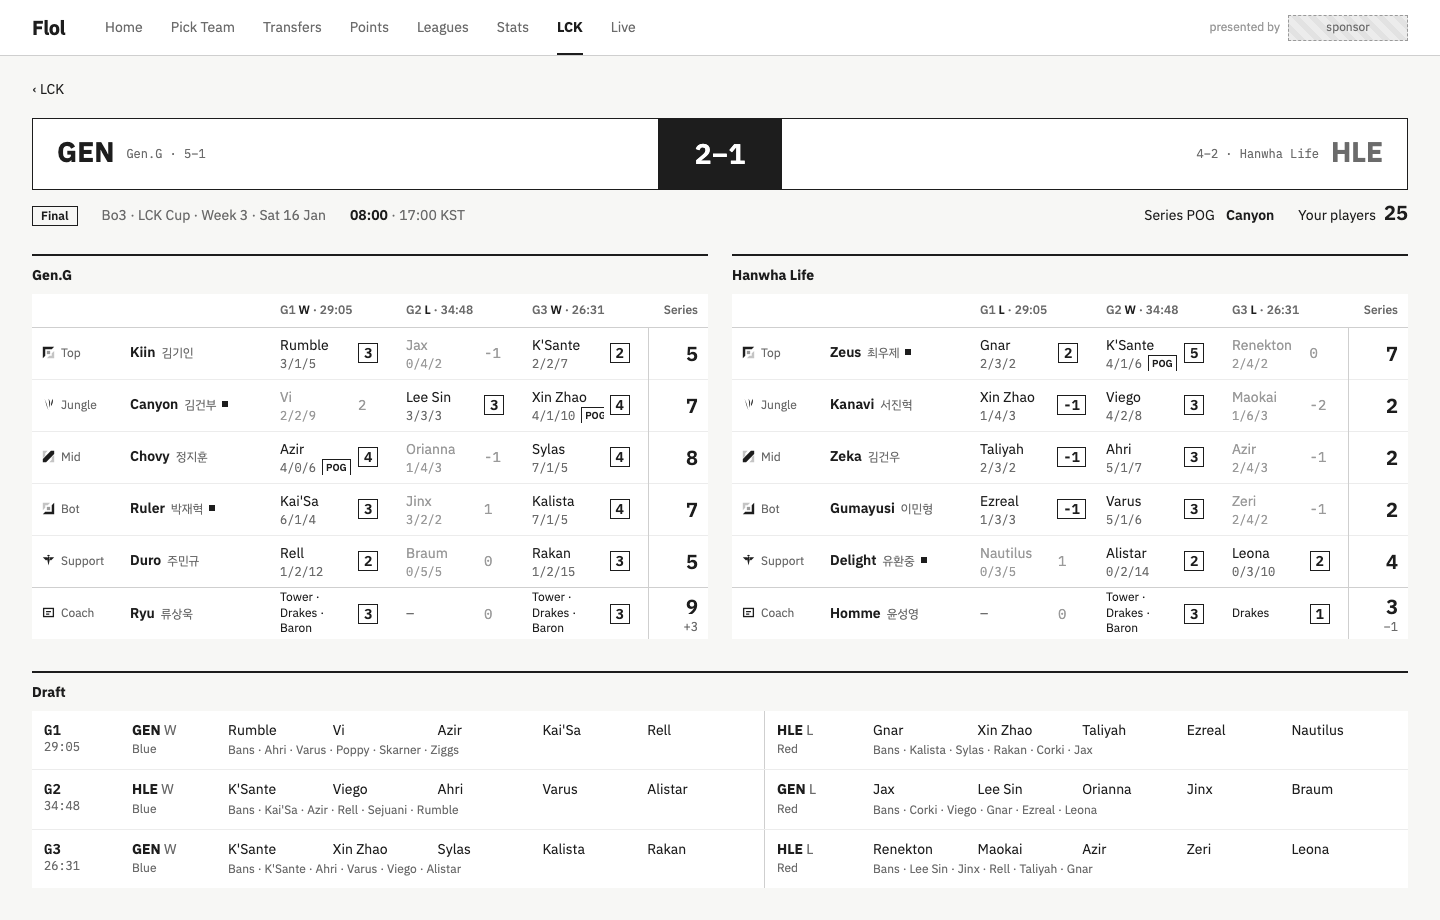
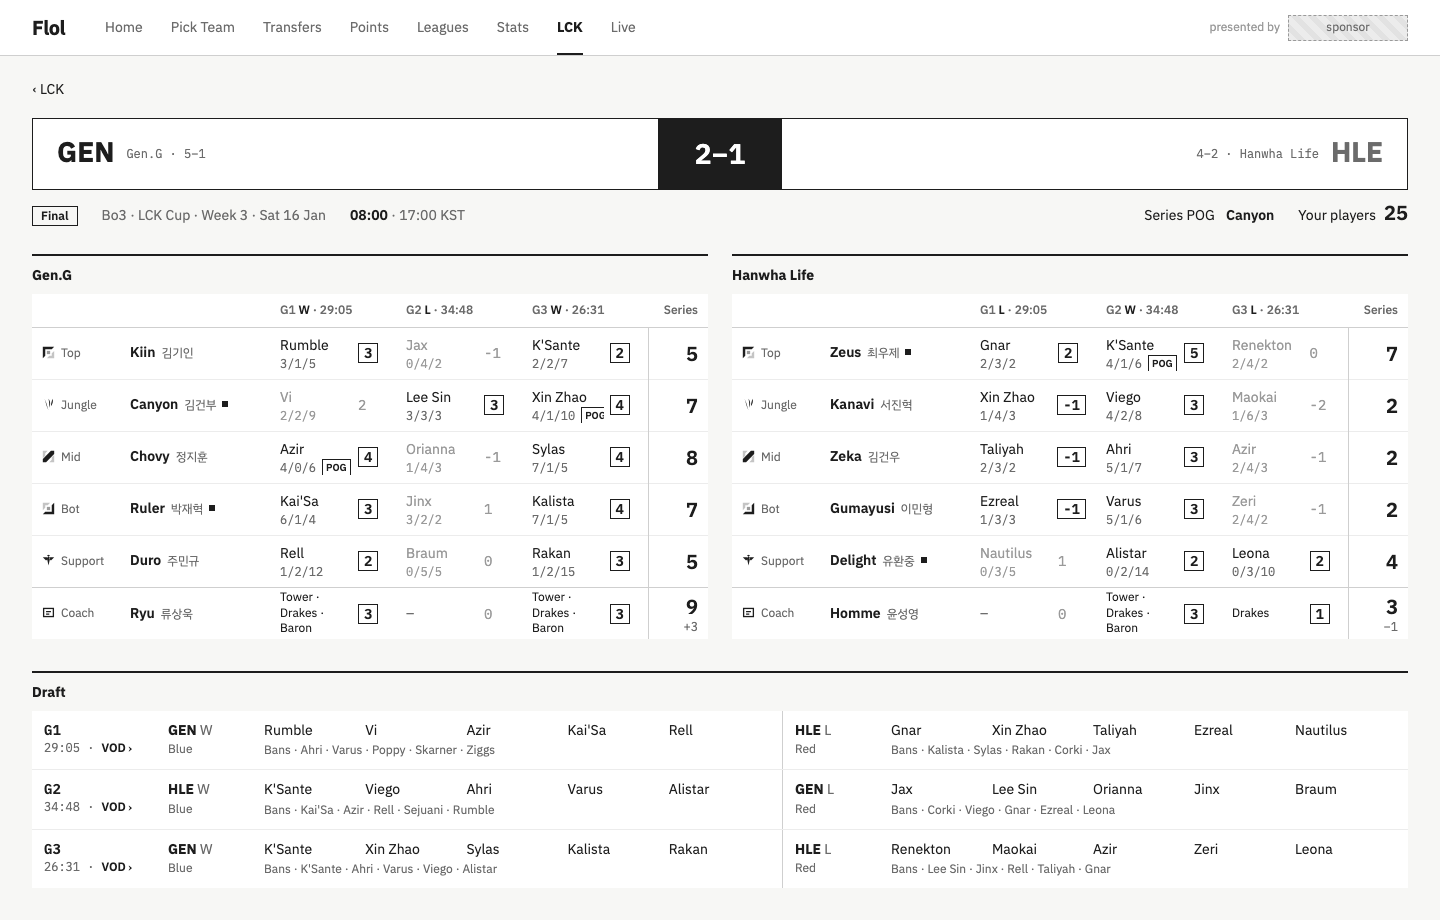
wip: Series round 3; VOD links, live view

diff --git a/docs/design/proposals/2026-11-16-series/series.html b/docs/design/proposals/2026-11-16-series/series.html
@@ -22,7 +22,7 @@ nav.top .sp { flex: 1; }
 .bug .sc.v { font-size: 20px; }
 .bug .lo b { color: var(--mid); }
 .meta { display: flex; gap: 24px; align-items: baseline; color: var(--mid); } .meta b { color: var(--ink); font-weight: 600; } .meta .tag { border: 1px solid var(--ink); color: var(--ink); padding: 1px 8px; font-size: 12px; font-weight: 600; }
-.meta .sp { flex: 1; } .meta a { color: var(--ink); font-weight: 600; }
+.meta .tag.nf { border-style: dashed; font-weight: 500; } .meta .sp { flex: 1; } .meta a { color: var(--ink); font-weight: 600; }
 .meta .fig { color: var(--ink); } .meta .fig b { font: 600 20px "IBM Plex Mono", monospace; margin-left: 8px; }
 .two { display: grid; grid-template-columns: 1fr 1fr; gap: 24px; margin-top: 28px; }
 h2 { font-size: 14px; font-weight: 700; border-top: 2px solid var(--ink); padding-top: 10px; margin-bottom: 8px; display: flex; gap: 10px; align-items: baseline; } h2 small { color: var(--mid); font-weight: 400; font-size: 12px; }
@@ -46,9 +46,9 @@ tr.co td { border-top: 1px solid var(--line); }
 .none { color: var(--mid); }
 /* the draft: one row per game, blue side left, red side right */
 .draft { margin-top: 32px; }
-.dr { display: grid; grid-template-columns: 88px 1fr 1fr; background: var(--paper); border-top: 1px solid var(--fill); }
+.dr { display: grid; grid-template-columns: 124px 1fr 1fr; background: var(--paper); border-top: 1px solid var(--fill); }
 .dr:first-of-type { border-top: 0; }
-.dr .g { padding: 10px 12px; font: 600 14px "IBM Plex Mono", monospace; } .dr .g small { display: block; font: 12px "IBM Plex Mono", monospace; color: var(--mid); }
+.dr .g { padding: 10px 12px; font: 600 14px "IBM Plex Mono", monospace; } .dr .g small { display: block; font: 12px "IBM Plex Mono", monospace; color: var(--mid); } .dr .g a { font: 600 12px "IBM Plex Sans KR"; color: var(--ink); }
 .side { padding: 10px 12px; display: grid; grid-template-columns: 96px 1fr; row-gap: 2px; }
 .side.red { border-left: 1px solid var(--line); }
 .side .who { grid-row: span 2; font-weight: 700; } .side .who small { display: block; font: 400 12px "IBM Plex Sans KR"; color: var(--mid); }
@@ -115,11 +115,19 @@ const S = {
           ["sup", "Delight", "유환중", [["Nautilus", 0, 3, 5, 0, 0, 0, 0, 0], ["Alistar", 0, 2, 14, 0, 0, 0, 0, 0], ["Leona", 0, 3, 10, 0, 0, 0, 0, 0]]]],
       bans: [["Kalista", "Sylas", "Rakan", "Corki", "Jax"], ["Kai'Sa", "Azir", "Rell", "Sejuani", "Rumble"], ["Lee Sin", "Jinx", "Rell", "Taliyah", "Gnar"]] } },
 };
+// Live: the same series at the Points moment (Sat 21:10 KST): T1 1–0, game 2 at 14:20. Faker G2 1, Siwoo G2 1, kkOma G2 0 (Points).
+// A live game has no gold lead (at 15:00), deathless, solo kills or steals yet: they come at final (spec/11). G2 so far: [champion, K, D, A, first blood]
+S.live = JSON.parse(JSON.stringify(S.final));
+S.live.games[1] = { live: "14:20", blue: "DK" }; S.live.pog = null;
+const G2 = { T1: [["Rumble", 1, 0, 1, 0], ["Xin Zhao", 1, 1, 2, 1], ["Sylas", 3, 0, 2, 0], ["Varus", 2, 0, 3, 0], ["Nautilus", 0, 1, 4, 0]],
+  DK: [["Gnar", 2, 1, 1, 0], ["Maokai", 0, 2, 1, 0], ["Azir", 0, 2, 1, 0], ["Zeri", 0, 1, 0, 0], ["Alistar", 0, 1, 2, 0]] };
+for (const c of ["T1", "DK"]) S.live[c].p.forEach((p, j) => { const [ch, k, d, a, fb] = G2[c][j]; p[3][1] = [ch, k, d, a, 0, 0, fb, 0, 0, true]; });
+S.live.T1.coach[2][1] = [0, 0, 0, 0, 0];
 const RH = { top: "Top", jng: "Jungle", mid: "Mid", bot: "Bot", sup: "Support" };
 const cap = (x) => Math.max(-3, Math.min(3, x));
-function pts(role, [, k, d, a, gold, solo, fb, multi, steal]) {
+function pts(role, [, k, d, a, gold, solo, fb, multi, steal, live]) {
   const kd = role === "top" || role === "sup" ? 2 : 3;
-  return cap(Math.floor(k / kd)) + cap(Math.floor(a / 5)) - cap(Math.floor(d / (role === "sup" ? 4 : 3))) + gold + solo + fb + (d === 0 ? 1 : 0) + multi + steal;
+  return cap(Math.floor(k / kd)) + cap(Math.floor(a / 5)) - cap(Math.floor(d / (role === "sup" ? 4 : 3))) + gold + solo + fb + (d === 0 && !live ? 1 : 0) + multi + steal;
 }
 const sum = (xs) => xs.reduce((s, x) => s + x, 0);
 // best 2 games: the indexes that count (the earlier game wins a tie, as on Points)
@@ -129,26 +137,26 @@ const pog = (s, i, n) => (s.games[i].pog === n ? '<span class="pog">POG</span>' 
 const cell = (s, i, n, label, sub, p, counted) => `<td class="${counted ? "" : "drop"}"><div class="gm"><span>${label}<small>${sub}${pog(s, i, n)}</small></span><span class="p">${counted ? `<span class="box">${p}</span>` : p}</span></div></td>`;
 const L = ["Tower", "Drakes", "Baron", "Elder", "Quick"];
 function team(s, code) {
-  const t = s[code], won = s.games.map((g) => g.w === code), n = s.games.length;
+  const t = s[code], won = s.games.map((g) => g.w === code), n = s.games.length, over = s.games.every((g) => g.w);
   const head = `<colgroup><col style="width:88px"><col style="width:${n > 2 ? 150 : 170}px">${s.games.map(() => "<col>").join("")}<col style="width:60px"></colgroup>
-    <tr><th></th><th></th>${s.games.map((g, i) => `<th>G${i + 1} <b>${g.w === code ? "W" : "L"}</b> · ${g.len}</th>`).join("")}<th class="n">Series</th></tr>`;
+    <tr><th></th><th></th>${s.games.map((g, i) => `<th>G${i + 1} ${g.live ? `<b>● ${g.live}</b>` : `<b>${g.w === code ? "W" : "L"}</b> · ${g.len}`}</th>`).join("")}<th class="n">Series</th></tr>`;
   const rows = t.p.map(([rl, nm, k, gs]) => { const ps = gs.map((g) => pts(rl, g)), c = best2(ps);
     return `<tr><td class="rl"><svg><use href="#i-${rl}"/></svg>${RH[rl]}</td><td class="pl"><b>${nm}</b><small>${k}</small>${me(nm)}</td>
       ${gs.map((g, i) => cell(s, i, nm, g[0], `${g[1]}/${g[2]}/${g[3]}`, ps[i], c.includes(i))).join("")}<td class="tot">${sum(c.map((i) => ps[i]))}</td></tr>`; }).join("");
-  const [cn, ck, cg] = t.coach, cp = cg.map(sum), c = best2(cp), sw = won.filter(Boolean).length === 2 ? 3 : -1;
+  const [cn, ck, cg] = t.coach, cp = cg.map(sum), c = best2(cp), sw = !over ? 0 : won.filter(Boolean).length === 2 ? 3 : -1;
   const coach = `<tr class="co"><td class="rl"><svg><use href="#i-coach"/></svg>Coach</td><td class="pl"><b>${cn}</b><small>${ck}</small>${me(cn)}</td>
     ${cg.map((g, i) => cell(s, i, cn, `<span class="${g.some(Boolean) ? "co-l" : "none"}">${g.map((x, j) => (x ? L[j] : "")).filter(Boolean).join(" · ") || "–"}</span>`, "", cp[i], c.includes(i))).join("")}
-    <td class="tot">${sum(c.map((i) => cp[i])) + sw}<small>${sw > 0 ? "+3" : "−1"}</small></td></tr>`;
+    <td class="tot">${sum(c.map((i) => cp[i])) + sw}<small>${sw > 0 ? "+3" : sw < 0 ? "−1" : "&nbsp;"}</small></td></tr>`;
   return { html: `<section><h2>${t.name}</h2><table>${head}${rows}${coach}</table></section>`,
     mine: sum(t.p.filter(([, nm]) => MINE.includes(nm)).map(([rl, , , gs]) => { const ps = gs.map((g) => pts(rl, g)); return sum(best2(ps).map((i) => ps[i])); }))
       + (MINE.includes(cn) ? sum(c.map((i) => cp[i])) + sw : 0) };
 }
 function draft(s) {
-  const side = (code, i, cls) => { const t = s[code], won = s.games[i].w === code;
-    return `<div class="side ${cls}"><div class="who">${code} <span style="font-weight:400;color:var(--mid)">${won ? "W" : "L"}</span><small>${cls === "blue" ? "Blue" : "Red"}</small></div>
+  const side = (code, i, cls) => { const t = s[code], g = s.games[i], won = g.w === code;
+    return `<div class="side ${cls}"><div class="who">${code} <span style="font-weight:400;color:var(--mid)">${g.live ? "" : won ? "W" : "L"}</span><small>${cls === "blue" ? "Blue" : "Red"}</small></div>
       <div class="pk">${t.p.map((p) => `<span>${p[3][i][0]}</span>`).join("")}</div><div class="bn">Bans · ${t.bans[i].join(" · ")}</div></div>`; };
   return `<section class="draft"><h2>Draft</h2>${s.games.map((g, i) => { const red = g.blue === s.a ? s.b : s.a;
-    return `<div class="dr"><div class="g">G${i + 1}<small>${g.len}</small></div>${side(g.blue, i, "blue")}${side(red, i, "red")}</div>`; }).join("")}</section>`;
+    return `<div class="dr"><div class="g">G${i + 1}${g.live ? `<small>● ${g.live}</small>` : `<small>${g.len} · <a>VOD ›</a></small>`}</div>${side(g.blue, i, "blue")}${side(red, i, "red")}</div>`; }).join("")}</section>`;
 }
 // Before it starts: Week 4's HLE v DK, Wednesday 20 Jan, opened at the hub's moment.
 const NEXT = { HLE: [["Zeus", "최우제"], ["Kanavi", "서진혁"], ["Zeka", "김건우"], ["Gumayusi", "이민형"], ["Delight", "유환중"], ["Homme", "윤성영"]],
@@ -160,11 +168,11 @@ if (V === "next") {
   $("two").innerHTML = Object.entries(NEXT).map(([c, ps]) => `<section><h2>${c}<small>${c === "HLE" ? "Hanwha Life" : "Dplus KIA"}</small></h2><table>
     ${ps.map(([n, k], i) => `<tr class="${i === 5 ? "co" : ""}"><td class="rl" style="width:110px;height:48px"><svg><use href="#i-${ICO[i]}"/></svg>${i === 5 ? "Coach" : RH[ICO[i]]}</td><td class="pl" style="height:48px"><b>${n}</b><small>${k}</small>${me(n)}</td></tr>`).join("")}</table></section>`).join("");
 } else {
-  const s = S[V], A = team(s, s.a), B = team(s, s.b), wa = s.games.filter((g) => g.w === s.a).length, wb = s.games.length - wa;
+  const s = S[V], A = team(s, s.a), B = team(s, s.b), wa = s.games.filter((g) => g.w === s.a).length, wb = s.games.filter((g) => g.w === s.b).length, live = s.games.some((g) => g.live);
   const rec = (c) => (s[c].name === c ? s[c].rec : `${s[c].name} · ${s[c].rec}`);
-  $("bug").innerHTML = `<div class="tm ${wa < wb ? "lo" : ""}"><b>${s.a}</b><small>${rec(s.a)}</small></div><div class="sc">${wa}–${wb}</div><div class="tm b ${wb < wa ? "lo" : ""}"><small>${s[s.b].rec}${s[s.b].name === s.b ? "" : ` · ${s[s.b].name}`}</small><b>${s.b}</b></div>`;
-  $("meta").innerHTML = `<span class="tag">Final</span><span>Bo3 · LCK Cup · Week 3 · Sat 16 Jan</span><span><b>${s.time[0]}</b> · ${s.time[1]} KST</span><span class="sp"></span>
-    <span class="fig">Series POG <b style="font:600 14px 'IBM Plex Sans KR'">${s.pog}</b></span><span class="fig">Your players<b>${A.mine + B.mine}</b></span>`;
+  $("bug").innerHTML = `<div class="tm ${!live && wa < wb ? "lo" : ""}"><b>${s.a}</b><small>${rec(s.a)}</small></div><div class="sc">${wa}–${wb}</div><div class="tm b ${!live && wb < wa ? "lo" : ""}"><small>${s[s.b].rec}${s[s.b].name === s.b ? "" : ` · ${s[s.b].name}`}</small><b>${s.b}</b></div>`;
+  $("meta").innerHTML = `${live ? '<span class="tag">Live</span><span class="tag nf">Not final</span>' : '<span class="tag">Final</span>'}<span>Bo3 · LCK Cup · Week 3 · Sat 16 Jan</span><span><b>${s.time[0]}</b> · ${s.time[1]} KST</span>${live ? "<a>Watch ›</a>" : ""}<span class="sp"></span>
+    ${s.pog ? `<span class="fig">Series POG <b style="font:600 14px 'IBM Plex Sans KR'">${s.pog}</b></span>` : ""}<span class="fig">Your players<b>${A.mine + B.mine}</b></span>`;
   $("two").innerHTML = A.html + B.html;
   $("draft").innerHTML = draft(s);
 }

diff --git a/docs/design/proposals/2026-11-16-series/panel.md b/docs/design/proposals/2026-11-16-series/panel.md
@@ -40,3 +40,14 @@ These are the FPL player's, the LCK fan's and UX's findings on `s-final.png` and
   - **Draft strip**: one row per game, picks and bans with the blue and red side;
   - **Your points**: one line at the top, the sum of your players in this series (e.g. "Your players: 21").
 - These need spec/12 lines on save. They widen the earlier "winner, length and champions only".
+
+## Round 2 (16 Nov 2026)
+
+- In: the 10 fixes above; POG on each game's K/D/A line and the series POG; the draft strip (blue then red, picks top to support, bans on one line); your players' series total; a 2–1 view (GEN 2–1 HLE).
+- Craig on the 5 calls: "As recommended", so:
+  - a VOD link per finished game, on the draft strip;
+  - no last-meeting line;
+  - the scorebug stays monochrome;
+  - each game's side shows on the draft strip;
+  - a live view drawn: T1 1–0 DK, G2 at 14:20, Live and Not final, Watch ›.
+- The live view keeps Live's numbers (Faker G1 4, G2 1; Siwoo 2, 1; kkOma 2, 0). Live's sidebar shows Siwoo's G2 as 0/1/1, which can't score 1 by spec/05; the Series page uses 2/1/1.
